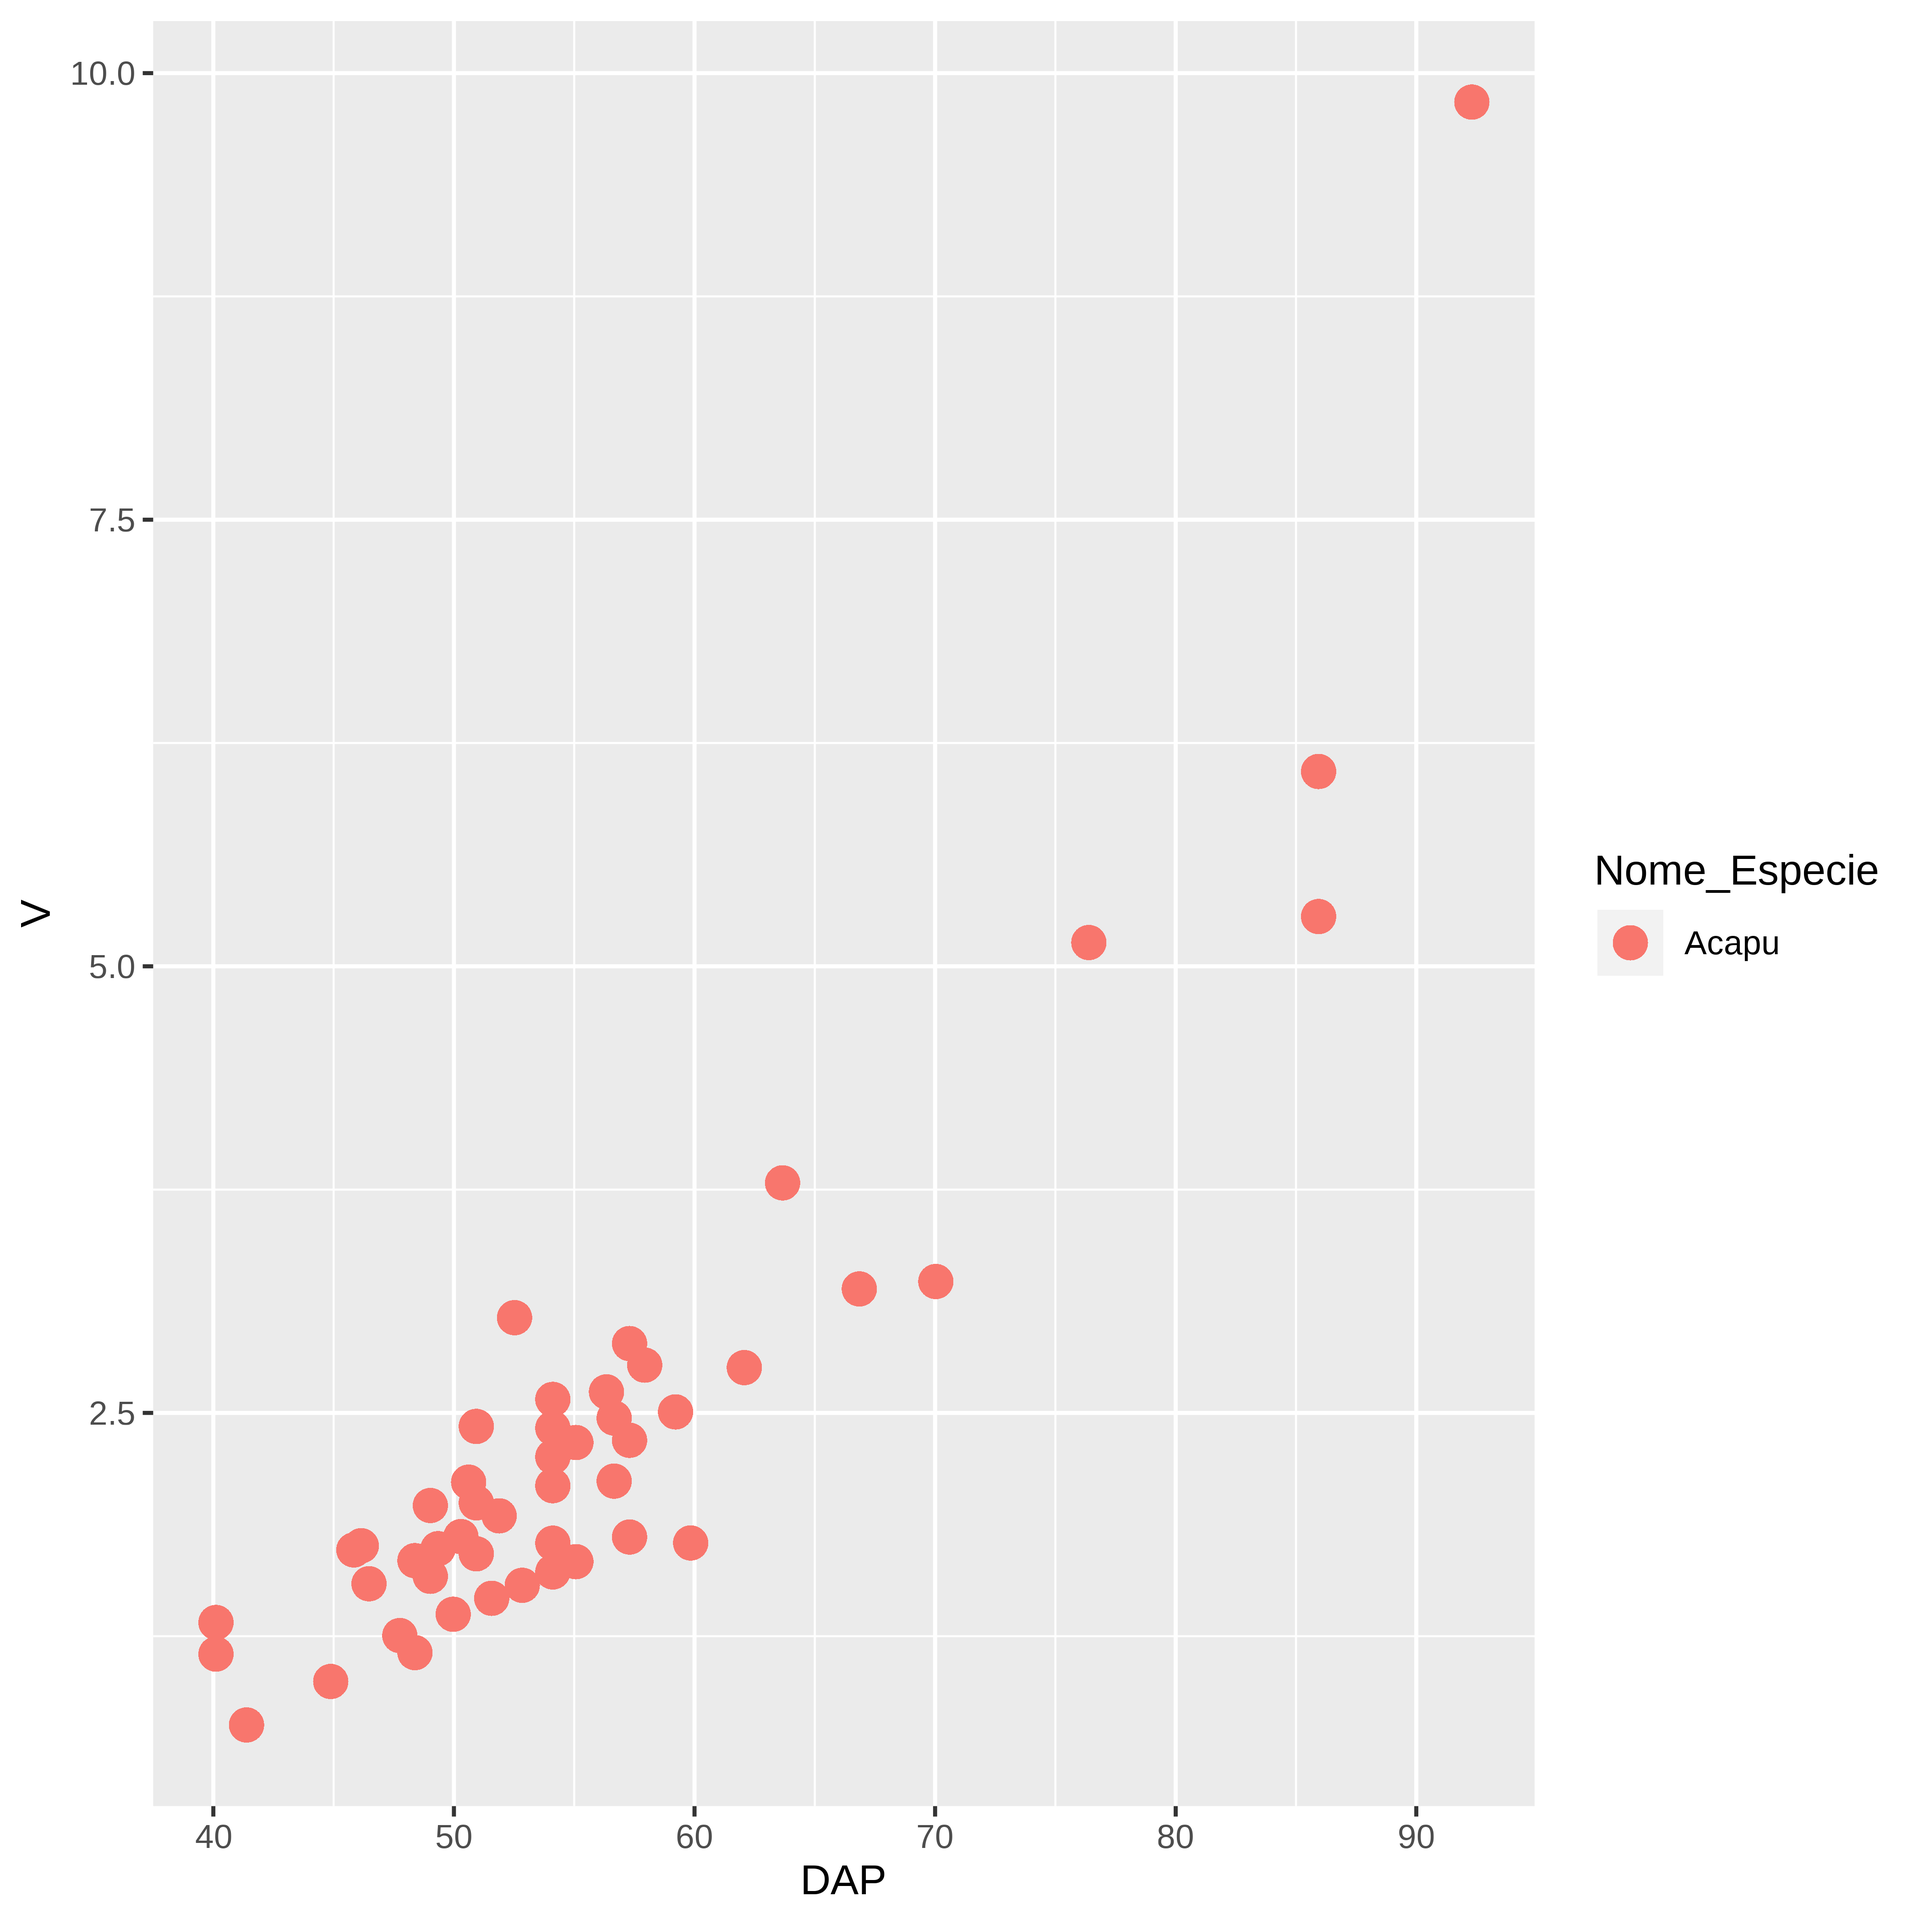
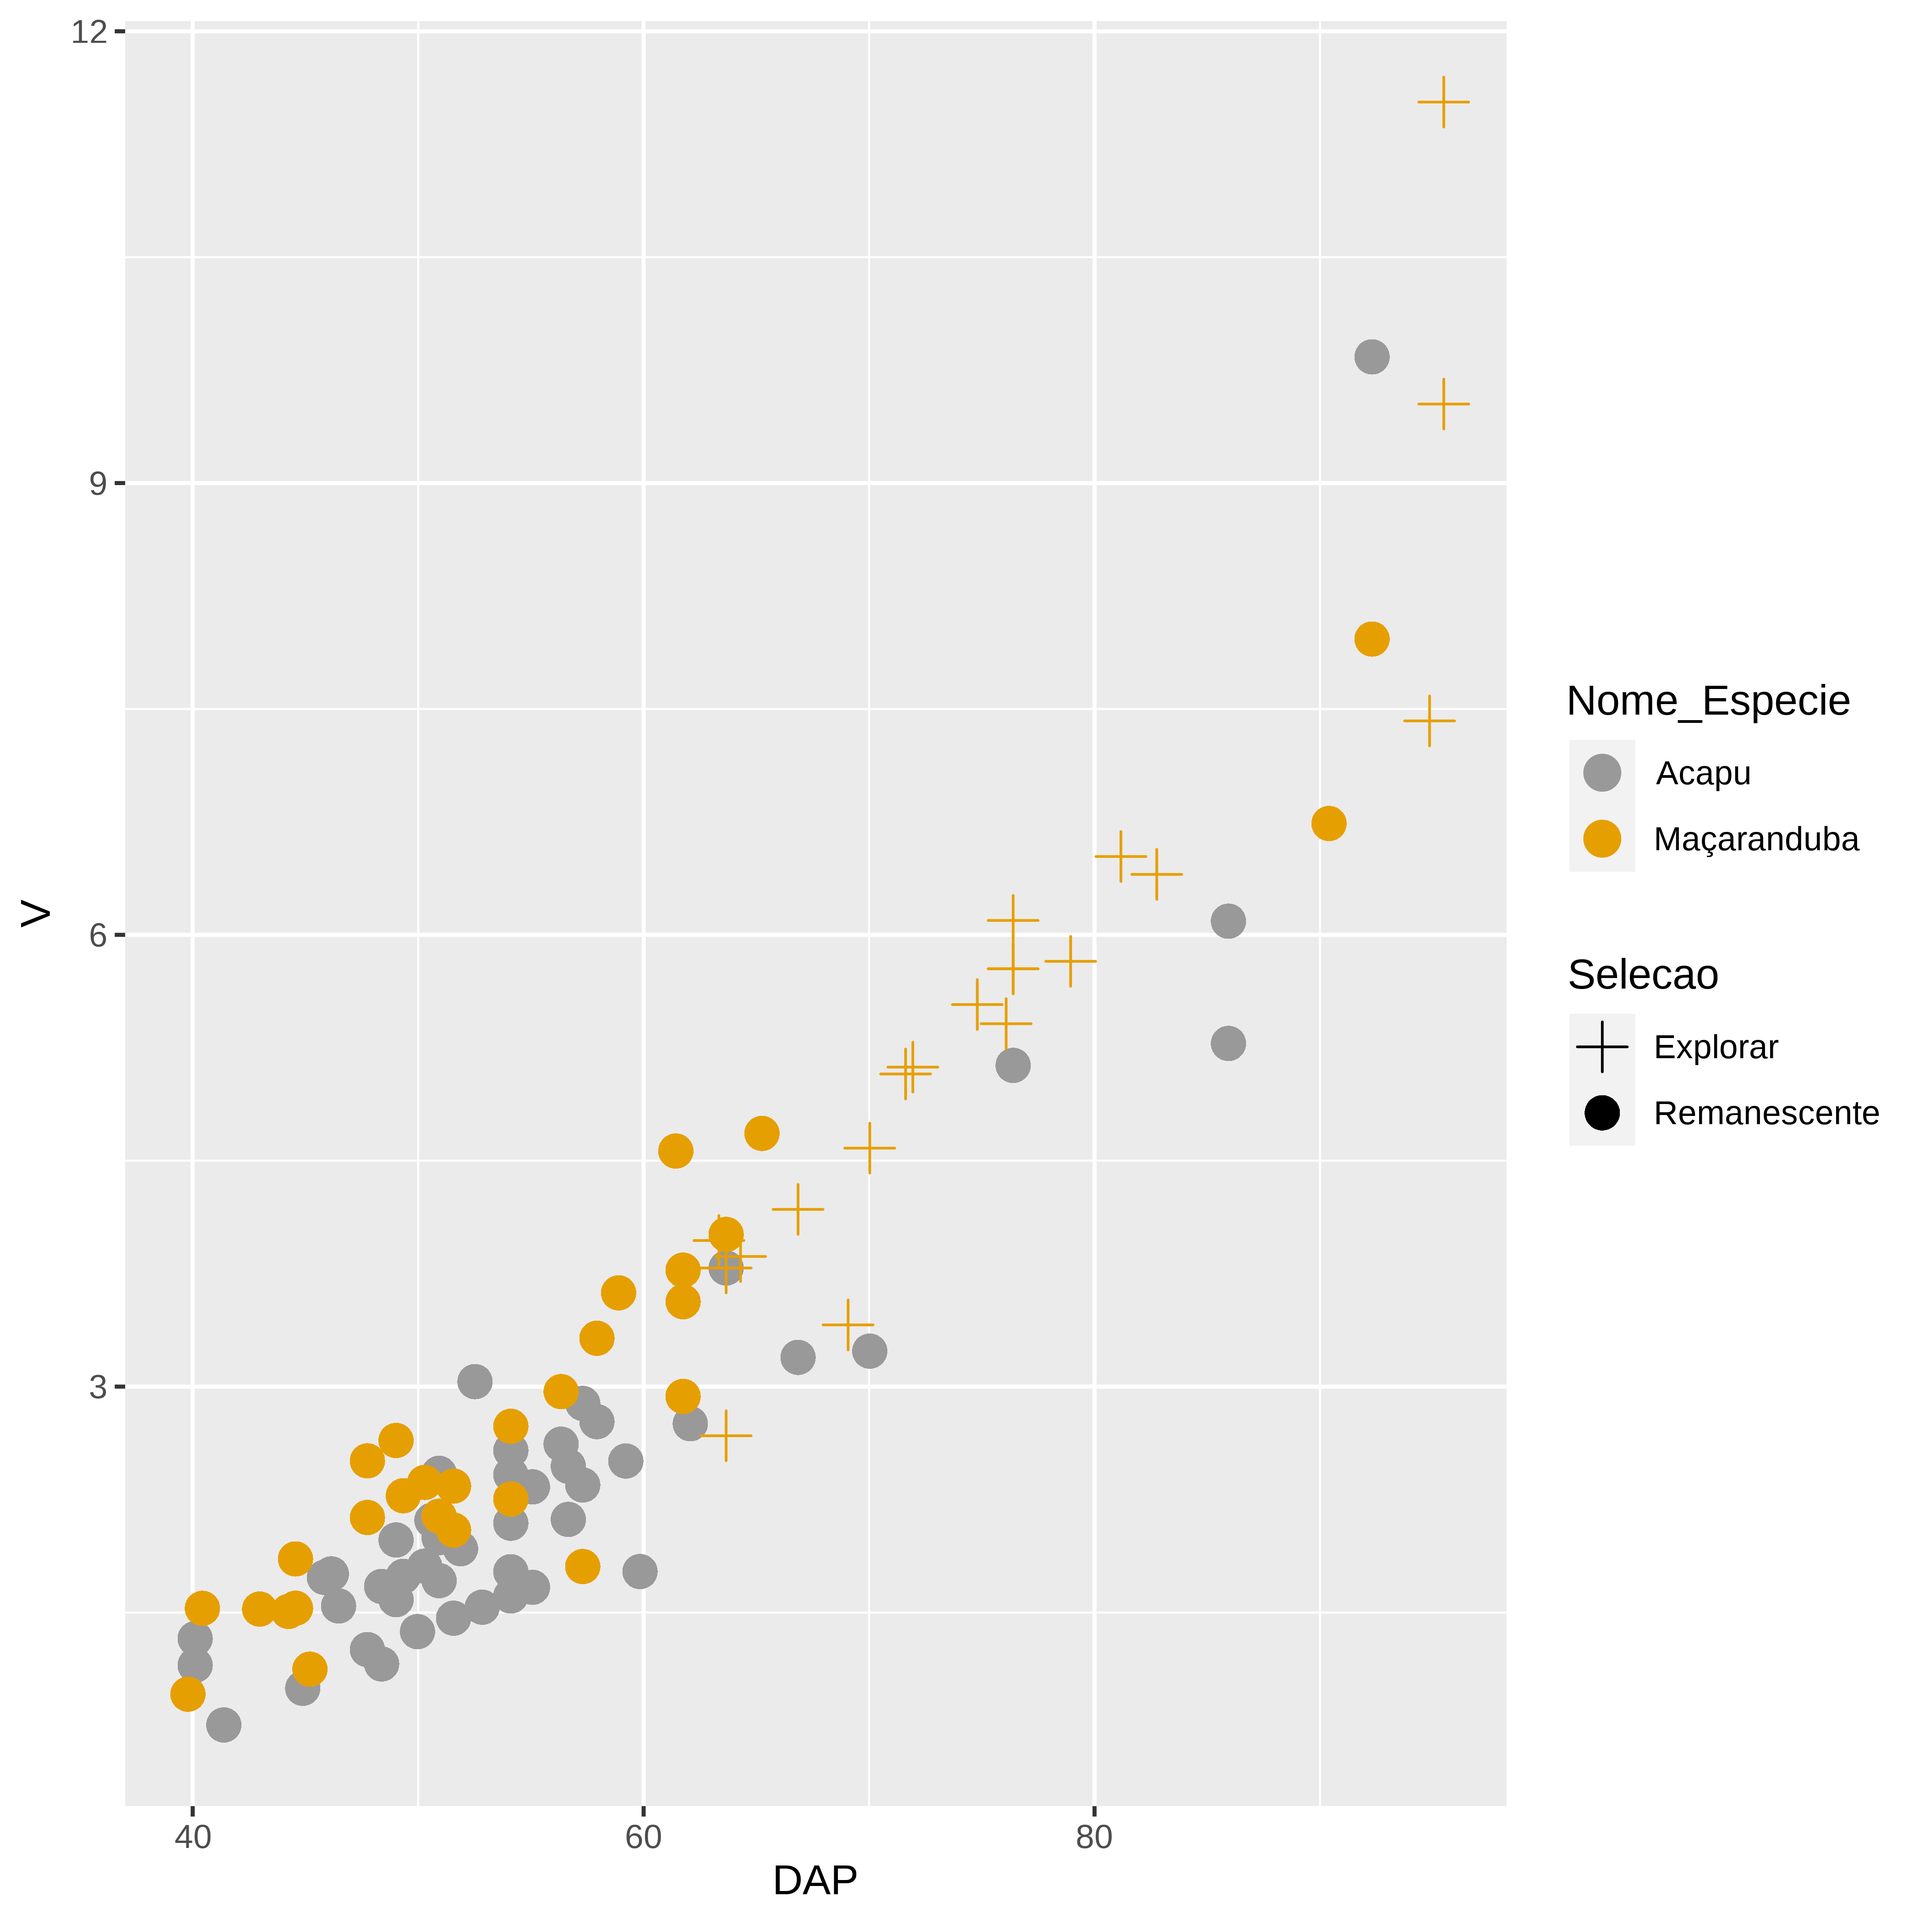
Update part3

diff --git a/Slides/03-Visualizacao-Dados.html b/Slides/03-Visualizacao-Dados.html
@@ -7,7 +7,7 @@
     <script src="03-Visualizacao-Dados_files/header-attrs-2.7/header-attrs.js"></script>
     <link href="03-Visualizacao-Dados_files/remark-css-0.0.1/default.css" rel="stylesheet" />
     <link href="03-Visualizacao-Dados_files/xaringanExtra-extra-styles-0.2.6/xaringanExtra-extra-styles.css" rel="stylesheet" />
-    <script type="application/json" id="xaringanExtra-editable-docid">{"id":"b5d1cc7b20af486a84032c1f60a26db3","expires":1}</script>
+    <script type="application/json" id="xaringanExtra-editable-docid">{"id":"ad89b2654d9e41f499aa367a1ab95f99","expires":1}</script>
     <script src="03-Visualizacao-Dados_files/himalaya-1.1.0/himalaya.js"></script>
     <script src="03-Visualizacao-Dados_files/js-cookie-3.0.0/js.cookie.js"></script>
     <link href="03-Visualizacao-Dados_files/editable-0.2.6/editable.css" rel="stylesheet" />
@@ -638,23 +638,24 @@ ggplot(data = data_sample %&gt;%
 
 .pull-left-4[
 .font70[
-- ...
+- É possível customizar as formas, cores e tamanhos dos pontos facilmente...
 
 
 ```r
 ggplot(data = data_sample %&gt;% 
-           filter(Nome_Especie == 'Acapu'), 
+           filter(Nome_Especie %in% c('Acapu', 'Maçaranduba')), 
        mapping = aes(x = DAP, y = V)) +           # 1ª camada
-  geom_point(mapping = aes(shape = Nome_Especie, 
-                           colour = Nome_Especie),
-             size = 4)                            # 2ª camada
+  geom_point(mapping = aes(colour = Nome_Especie,
+                           shape = Selecao),
+             size = 4) +                          # 2ª camada
+  scale_shape_manual(values=c(3, 16)) +
+  scale_color_manual(values=c('#999999','#E69F00'))
 ```
 &lt;br&gt;
 
 👉 **2ª camada**:
 
-- Isso é feito com argumento .magenta[**size**], porém fora de .green[aes()].
-- Especifique um valor inteiro para o argumento.
+- Use .green[scale_shape_manual()] e .green[scale_color_manual()] para definir a forma e cor desejada para os pontos, respectivamente.
 ]
 ]
 
